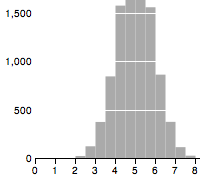
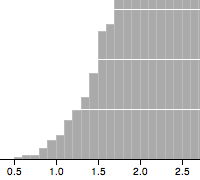
Polish histogram example.

diff --git a/www/ex/histogram-full.html b/www/ex/histogram-full.html
@@ -1,57 +1,62 @@
 <html>
   <head>
     <title>Histogram</title>
-    <link rel="stylesheet" type="text/css" href="ex.css"/>
+    <link rel="stylesheet" type="text/css" href="ex.css?3.2"/>
     <script type="text/javascript" src="../protovis-r3.2.js"></script>
     <script type="text/javascript" src="histogram.js"></script>
     <style type="text/css">
-      #fig {
-        width: 360px;
-        height: 360px;
-      }
+
+#fig {
+  width: 460px;
+  height: 340px;
+}
+
     </style>
   </head>
   <body><div id="center"><div id="fig">
     <script type="text/javascript+protovis">
 
-      var w = 300,
-          h = 300,
-          x = pv.Scale.linear(0, experiment.rv).range(0, w),
-          bins = pv.histogram(experiment.values).bins(x.ticks(20)),
-          y = pv.Scale.linear(0, pv.max(bins, function(d) d.y)).range(0, h);
+var w = 420,
+    h = 300,
+    x = pv.Scale.linear(0, experiment.variables).range(0, w),
+    bins = pv.histogram(experiment.values).bins(x.ticks(60)),
+    y = pv.Scale.linear(0, pv.max(bins, function(d) d.y)).range(0, h);
 
-      var vis = new pv.Panel()
-          .width(w)
-          .height(h)
-          .margin(30);
+var vis = new pv.Panel()
+    .width(w)
+    .height(h)
+    .margin(20);
 
-      vis.add(pv.Bar)
-          .data(bins)
-          .left(function(d) x(d.x))
-          .bottom(0)
-          .width(function(d) x(d.dx))
-          .height(function(d) y(d.y))
-          .fillStyle("#aaa");
+vis.add(pv.Bar)
+    .data(bins)
+    .bottom(0)
+    .left(function(d) x(d.x))
+    .width(function(d) x(d.dx))
+    .height(function(d) y(d.y))
+    .fillStyle("#aaa")
+    .strokeStyle("rgba(255, 255, 255, .2)")
+    .lineWidth(1)
+    .antialias(false);
 
-      vis.add(pv.Rule)
-          .data(y.ticks())
-          .bottom(y)
-          .strokeStyle("#fff")
-        .anchor("left").add(pv.Label)
-          .text(function(d) y.tickFormat(d));
+vis.add(pv.Rule)
+    .data(y.ticks(5))
+    .bottom(y)
+    .strokeStyle("#fff")
+  .anchor("left").add(pv.Label)
+    .text(y.tickFormat);
 
-     vis.add(pv.Rule)
-          .data(x.ticks())
-          .left(x)
-          .bottom(-5)
-          .height(5)
-        .anchor("bottom").add(pv.Label)
-          .text(function(d) x.tickFormat(d));
+vis.add(pv.Rule)
+    .data(x.ticks())
+    .left(x)
+    .bottom(-5)
+    .height(5)
+  .anchor("bottom").add(pv.Label)
+    .text(x.tickFormat);
 
-      vis.add(pv.Rule)
-          .bottom(0);
+vis.add(pv.Rule)
+    .bottom(0);
 
-      vis.render();
+vis.render();
 
     </script>
   </div></div></body>

diff --git a/www/ex/histogram.js b/www/ex/histogram.js
@@ -1,9 +1,8 @@
 /* Generate an Irwin-Hall distribution. */
-var experiment = {};
-
-experiment.trials = 10000, // number of trials
-experiment.rv = 10; // number of random variables
+var experiment = {
+  trials: 10000, // number of trials
+  variables: 5 // number of random variables
+};
 experiment.values = pv.range(experiment.trials).map(function() {
-  return pv.sum(pv.range(experiment.rv), Math.random);
+  return pv.sum(pv.range(experiment.variables), Math.random);
 });
-
